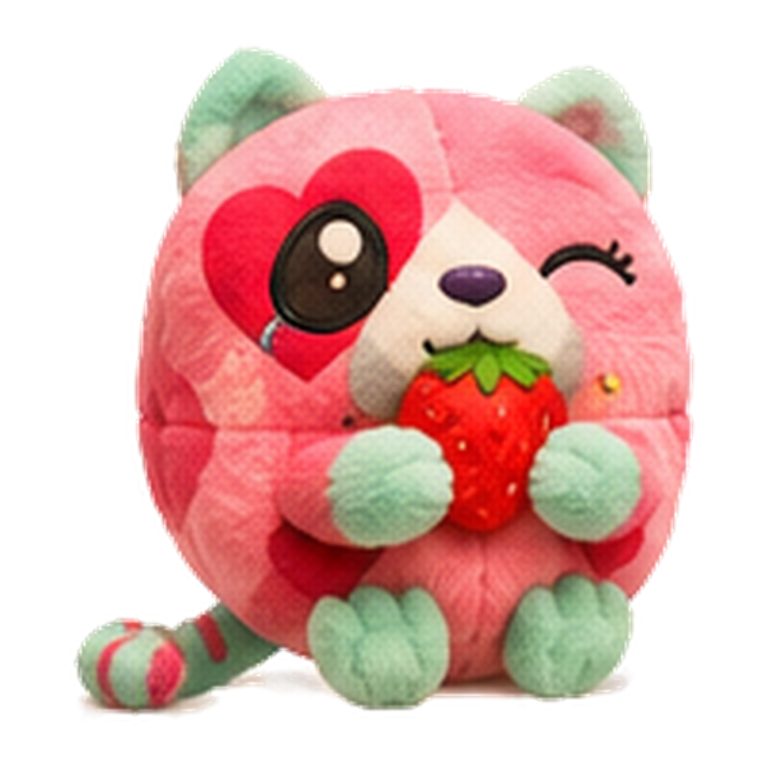
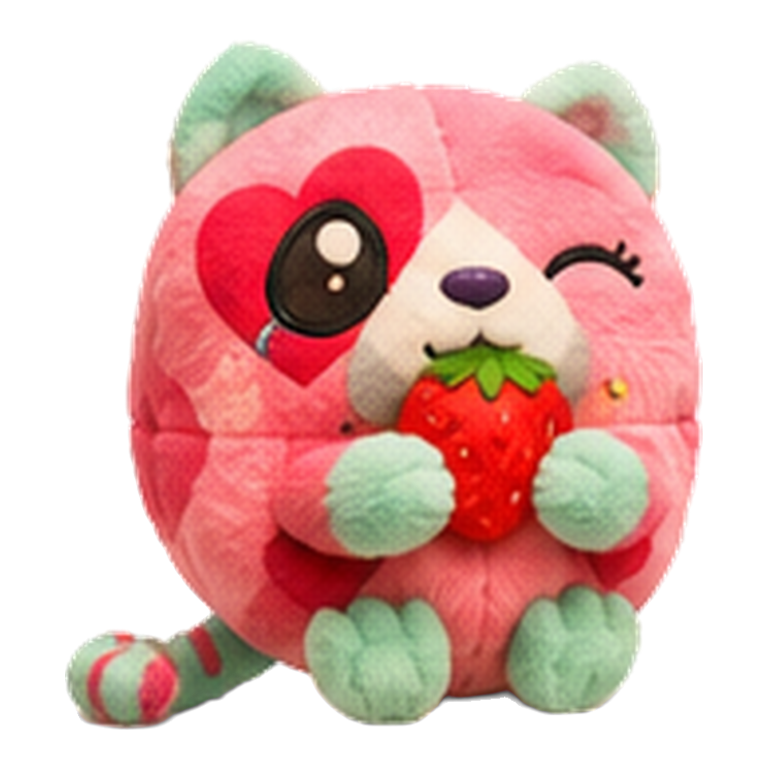
Detourage refait (sans lisere blanc, cadrage identique), Koala Doux et Goubi, doudous animes avec leurs poses

diff --git a/css/style.css b/css/style.css
@@ -153,7 +153,7 @@ button {
   min-height: 0;
 }
 .porte {
-  width: clamp(160px, 44vh, 340px);
+  width: clamp(150px, 40vh, 320px);
   aspect-ratio: 1;
   border-radius: 40px;
   background: linear-gradient(160deg, #ffffff, #fff0e3);
@@ -197,12 +197,64 @@ button {
   gap: 1.5vw;
 }
 .ami {
-  width: clamp(80px, 21vh, 190px);
-  height: clamp(80px, 21vh, 190px);
+  --taille: min(clamp(80px, 28vh, 240px), calc((100vw - 60px) / var(--n, 6) - 1.5vw));
+  position: relative;
+  width: var(--taille);
+  height: var(--taille);
   animation: balance 2.6s ease-in-out infinite;
   animation-delay: calc(var(--i) * -0.37s);
 }
-.ami.coucou { animation: coucou 0.9s cubic-bezier(0.3, 1.6, 0.5, 1); }
+/* respiration douce, en permanence */
+.ami .doudou {
+  transform-origin: 50% 100%;
+  animation: souffle 2.8s ease-in-out infinite;
+  animation-delay: calc(var(--i) * -0.5s);
+}
+@keyframes souffle {
+  0%, 100% { transform: scale(1, 1); }
+  50%      { transform: scale(0.985, 1.035); }
+}
+
+/* Petites scènes de vie (js/accueil.js) */
+.ami.scene-coucou { animation: coucou 0.9s cubic-bezier(0.3, 1.6, 0.5, 1); }
+.ami.scene-coucou .doudou { animation: salue 0.45s ease-in-out 4 alternate; }
+@keyframes salue {
+  from { transform: rotate(-5deg); }
+  to   { transform: rotate(5deg); }
+}
+.ami.scene-saute { animation: none; }
+.ami.scene-saute .doudou { animation: saute 0.6s cubic-bezier(0.3, 0, 0.4, 1) 2; }
+@keyframes saute {
+  0%   { transform: translateY(0) scale(1, 1); }
+  15%  { transform: translateY(0) scale(1.12, 0.86); }
+  50%  { transform: translateY(-38%) scale(0.94, 1.08); }
+  80%  { transform: translateY(0) scale(1.1, 0.9); }
+  100% { transform: translateY(0) scale(1, 1); }
+}
+.ami.scene-tourbillon { animation: none; }
+.ami.scene-tourbillon .doudou { animation: tourbillon 1.2s cubic-bezier(0.4, 0, 0.3, 1); }
+@keyframes tourbillon {
+  0%   { transform: translateY(0) scale(1, 1); }
+  20%  { transform: translateY(0) scale(1.1, 0.88); }
+  60%  { transform: translateY(-30%) rotateY(360deg) scale(1); }
+  85%  { transform: translateY(0) rotateY(360deg) scale(1.08, 0.92); }
+  100% { transform: translateY(0) rotateY(360deg) scale(1, 1); }
+}
+.ami.scene-dodo { animation: none; transform: rotate(-3deg); }
+.ami.scene-dodo .doudou { animation: souffle 1.8s ease-in-out infinite; }
+.zzz-mini {
+  position: absolute;
+  top: 0;
+  right: 4%;
+  font-size: calc(var(--taille) * 0.2);
+  font-weight: 800;
+  color: #8f7fd9;
+  text-shadow: 0 2px 0 #fff;
+  pointer-events: none;
+}
+.zzz-mini span { display: inline-block; opacity: 0; animation: zzz 1.8s ease-in-out infinite; }
+.zzz-mini span:nth-child(2) { animation-delay: 0.45s; font-size: 0.8em; }
+.zzz-mini span:nth-child(3) { animation-delay: 0.9s; font-size: 0.6em; }
 @keyframes balance {
   0%, 100% { transform: rotate(-4deg); }
   50%      { transform: rotate(4deg) translateY(-4px); }
@@ -302,6 +354,7 @@ button {
   background: radial-gradient(circle at 50% 40%, #ffffff, #fff4e8);
   padding: 8%;
 }
+.carte.trouvee .face .doudou { animation: saute 0.6s cubic-bezier(0.3, 0, 0.4, 1) 0.45s 2; transform-origin: 50% 100%; }
 .carte.trouvee .face {
   border-color: var(--or);
   box-shadow: 0 0 0 3px #fff, 0 0 26px rgba(255, 196, 80, 0.9);

diff --git a/js/accueil.js b/js/accueil.js
@@ -31,26 +31,64 @@ export function ouvrirAccueil(scene, { aller }) {
 
   // Ronde des doudous : un toucher, et le doudou fait coucou.
   const ronde = scene.querySelector('.ronde');
-  doudous.slice(0, 7).forEach((d, i) => {
+  const amis = doudous.slice(0, 8).map((d, i) => {
     const ami = document.createElement('button');
     ami.className = 'ami';
     ami.style.setProperty('--i', i);
     ami.setAttribute('aria-label', d.nom);
     ami.append(imageDoudou(d));
-    let enCours = null;
+    const vivant = { ami, doudou: d, minuterie: null, occupe: false };
     ami.addEventListener('click', () => {
-      clearTimeout(enCours);
-      ami.replaceChildren(imageDoudou(d, 'coucou'));
-      ami.classList.remove('coucou'); void ami.offsetWidth; ami.classList.add('coucou');
+      jouerScene(vivant, 'coucou');
       douceur();
       gerbeSur(ami, 8);
       dire('coucou-ami', { nom: d.nom, id: d.id });
-      enCours = setTimeout(() => { ami.classList.remove('coucou'); ami.replaceChildren(imageDoudou(d)); }, 1800);
     });
     ronde.append(ami);
+    return vivant;
   });
+  ronde.style.setProperty('--n', amis.length);
+
+  // Petites scènes de vie : de temps en temps, un doudou au hasard bouge tout seul.
+  const vie = setInterval(() => {
+    const libres = amis.filter((a) => !a.occupe);
+    if (!libres.length) return;
+    const choix = libres[Math.floor(Math.random() * libres.length)];
+    jouerScene(choix, SCENES[Math.floor(Math.random() * SCENES.length)]);
+  }, 2600);
 
   dire('accueil');
+
+  return () => {
+    clearInterval(vie);
+    amis.forEach((a) => clearTimeout(a.minuterie));
+  };
+}
+
+// Chaque scène : une pose du doudou, une animation CSS (classe), une durée.
+const SCENES_DEFINIES = {
+  coucou: { pose: 'coucou', duree: 1800 },
+  saute: { pose: 'joie', duree: 1200 },
+  tourbillon: { pose: 'joie', duree: 1300 },
+  dodo: { pose: 'dodo', duree: 3600 },
+};
+const SCENES = ['saute', 'coucou', 'dodo', 'tourbillon', 'saute'];
+
+function jouerScene(vivant, nom) {
+  const { ami, doudou } = vivant;
+  const scene = SCENES_DEFINIES[nom];
+  clearTimeout(vivant.minuterie);
+  vivant.occupe = true;
+  ami.className = 'ami';
+  ami.replaceChildren(imageDoudou(doudou, scene.pose));
+  if (nom === 'dodo') ami.insertAdjacentHTML('beforeend', '<span class="zzz-mini"><span>z</span><span>z</span><span>z</span></span>');
+  void ami.offsetWidth; // relance l’animation même si c’est la même
+  ami.classList.add('scene-' + nom);
+  vivant.minuterie = setTimeout(() => {
+    ami.className = 'ami';
+    ami.replaceChildren(imageDoudou(doudou));
+    vivant.occupe = false;
+  }, scene.duree);
 }
 
 // Trois petites cartes en éventail

diff --git a/js/jeux/memory.js b/js/jeux/memory.js
@@ -82,8 +82,11 @@ export function ouvrirMemory(scene, { aller }) {
       if (autre.doudou.id === doudou.id) {
         // Paire trouvée !
         plusTard(() => {
-          autre.carte.classList.add('trouvee');
-          carte.classList.add('trouvee');
+          // Les doudous retrouvés sautent de joie sur leurs cartes
+          [autre.carte, carte].forEach((c) => {
+            c.classList.add('trouvee');
+            c.querySelector('.face').replaceChildren(imageDoudou(doudou, 'joie'));
+          });
           carillon();
           gerbeSur(autre.carte, 8);
           gerbeSur(carte, 8);

diff --git a/CLAUDE.md b/CLAUDE.md
@@ -36,7 +36,8 @@ L’interlocuteur (le parent) a un **profil métier, pas développeur** : expliq
 - **Tous les chemins sont relatifs** (`assets/…`, jamais `/assets/…`) : le site est servi depuis un sous-dossier sur GitHub Pages.
 - **iOS** : le son et la voix ne démarrent qu’après un toucher → écran de démarrage avec un gros bouton « jouer ». Pas de plein écran par API sur iPhone : il vient de « Ajouter à l’écran d’accueil ». Le service worker exige HTTPS (ou `localhost`).
 - **Doudous** : `data/doudous.json`, **une ligne par doudou** : `id`, `nom` (dit par la voix), `couleur` dominante, `dossier` (ex. `assets/doudous/panda`). Chaque dossier contient six poses PNG détourées 768 × 768 : `face.png` (content), `coucou.png`, `dodo.png` (endormi), `bobo.png` (triste, pour le docteur), `mange.png` (pique-nique), `joie.png` (saute de joie). Une pose manquante est remplacée par `face.png` ; sans aucune image, un doudou dessiné en SVG (`forme` : `ours`, `lapin`, `chat`, `souris`, `panda`) prend le relais. Un champ `images` explicite par pose reste possible.
-- **Doudous reçus (6 novembre 2026)** : Cappy (dossier `doudou-marron`), Sacha (`chat-bleu`), Debby (`chat-rose`), Pandy Panda (`panda`), Poussin (`poussin-jaune`). Trois autres doivent arriver ; d’ici là, « Lapinou » (dessin provisoire, `"provisoire": true`) complète les 6 paires du Memory. Les illustrations d’origine (nommées `xxx_01_content.png`…) sont renommées par pose à leur arrivée.
+- **Doudous reçus (6 novembre 2026)** : Cappy (dossier `doudou-marron`), Sacha (`chat-bleu`), Debby (`chat-rose`), Pandy Panda (`panda`), Poussin (`poussin-jaune`), Koala Doux (`koala-doux`, fichiers d’origine `koala_gris_*`), Goubi (`goubi`, d’origine `doudou_yeux_bleus_*`). Un dernier doit arriver. Les illustrations d’origine (`xxx_01_content.png`…) sont renommées par pose.
+- **Détourage** (refait le 6 novembre 2026) : toutes les poses sont redétourées, recadrées et centrées de la même façon (768 × 768, marge 5 %, posées en bas). Sans liseré blanc : le masque vient d’un modèle d’IA de détourage (`@imgly/background-removal`, exécuté dans le navigateur, car le Node.js du PC est en 32 bits et ne peut pas le faire tourner), puis le blanc est retiré des pixels de bord. Goubi garde son détourage d’origine, qui était bon, simplement recadré. **Koala Doux est une photo** : une ombre grise collée à sa jambe gauche reste visible, et ses six poses sont quasi identiques. Le mieux sera d’en faire des illustrations comme les autres.
 - **Images générées** : `node tools/generate-assets.mjs` (clé `OPENAI_API_KEY` dans l’environnement ou dans un fichier `.env` non versionné), modèle `gpt-image-1`, liste dans `data/images-a-generer.json`, préfixe de style commun (peluche 3D douce, lumière chaleureuse). Le script **ne régénère jamais un fichier existant** (`--force` pour forcer, `--essai` pour lister sans rien appeler). Une entrée avec `reference` (photo d’un vrai doudou) passe par l’API d’édition pour garder sa ressemblance. Les décors sont posés en CSS **par-dessus un dégradé de secours** : l’app marche sans eux.
 - **Animations** : CSS/JS. Plus tard, option de courts clips Gemini/Veo (`GEMINI_API_KEY`), toujours avec repli automatique sur le CSS.
 - **Sons** : synthétisés en Web Audio (`js/sons.js`). Remplaçables plus tard par des fichiers.
